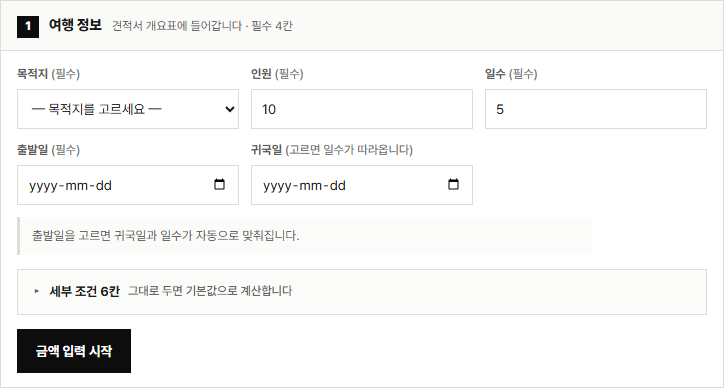
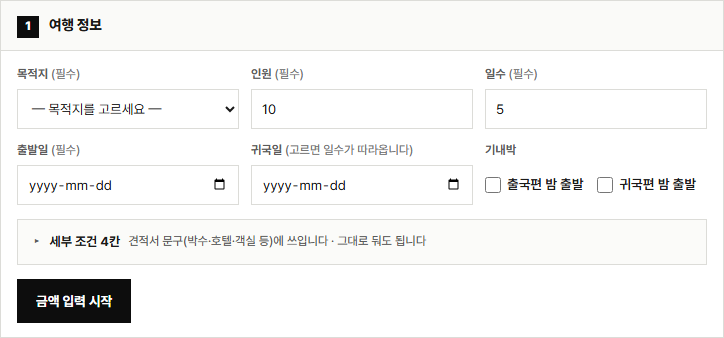
매뉴얼 — 9/28~9/30 관리자 변경을 따라잡음 · 낡은 매뉴얼을 통과시키던 검사 둘 (대표 요청 「매뉴얼 오류·충돌 체크」 2026-10-01)
매뉴얼은 9/28 17:20 이후, 그림은 9/17 이후 안 바뀌었고 그 사이 관리자 커밋이 17건 들어왔다.
글과 코드를 줄마다 대조해(파일:줄 근거) 고쳤다.

🔴 없는 버튼을 설명하던 것
- 견적서 대장 장 — 「견적 상세」·「🔴 최신본」·차수 배지·「개정 아님으로」/「○○ 개정으로」를 설명했다.
  9/28(c5085c2)에 전부 화면에서 빠졌다 → 「한 견적 = 한 줄 · 이전 판은 접혀 있다 · 맨 위 줄이 최신판」으로 다시 씀.
  옛 링크의 「더 최근 판이 있습니다」 띠(48e4fbe)도 같은 자리에.
- 「삭제 버튼이 없습니다」 → 9/30(93af85e)부터 있다. 「취소가 먼저 · 삭제는 매니저 이상 · 고객 링크는
  『없는 견적서』 · 삭제 기록에 남음 · 번호 재사용 안 함」으로. 관리자 대장 안내문의 「지우지 않습니다」도 같이.
- 직접 견적 세부 조건 「6칸」 → 4칸(c210e19) · 「칸이 5개 줄어」 → 7개 · 「11칸 → 6칸」 → 4칸.
- ② 그림 설명 「ENBT 수익·내부 배지」 → 「본사 수익 · 연분홍 바탕 줄」(cb64f29).
- ③ 유효기간 「비우면 14일」 → 「자동으로 한 달 뒤」(1573행 · 같은 매뉴얼 731행과 어긋났다).
  ⚠ 직접 견적(패키지 경로)의 14일(1493행)은 서버값 그대로 둠 — 맞출지는 대기열 0-ac(대표 결정).
- 「13칸 · 직접 견적에서는 안 보입니다」 → 직접 견적에도 호텔·좌석·객실은 보인다(문구용).

🟡 매뉴얼에 없던 새 기능: 대장 월별 보기 · ② 「고객 가격에 반영 / 우리 마진에서 부담」 ·
① 기내박(박수·호텔 1박씩) · ④ 「모든 날에 적용」 · 고치기에서 ②③④ 「저장하기」가 바로 저장(42f6484) ·
권한표에 대장 삭제·직접 견적 작성·전체 내보내기(매니저 이상) · 「공급사 원가 합계」 이름.

그림 3장 다시 찍음(shoot_manual.py · 로컬 서버 + 가짜 응답) — 4칸 · 본사 수익 · 부담 고르기 · 기내박이 보인다.

🔴 낡은 매뉴얼이 안 걸린 이유 — 검사 둘이 거짓으로 통과하고 있었다(결함 생성기 ③)
- test_aA [7]: 「화면에 『개정 아님으로』가 있다」를 ledger.js에 그 글자가 있는지로 쟀는데, 버튼을 뺀 뒤에도
  **주석**에 남아 있어 늘 「있다」였다 → 주석을 걷은 코드에서 읽고, 화면에 없는 버튼은 설명하지 않는지까지 본다.
  옛 manual.html을 넣으면 7개가 ✗로 잡힌다(확인함).
- test_wB ⑦ 「화면에 삭제 버튼이 없다」: `led-delete`를 찾았는데 실제 버튼은 `led-del` → 늘 통과.
  「삭제는 매니저 이상에게만 그린다」로 바꿈 · 권한을 뗀 코드 둘에서 ✗ 확인.

재 본 것: 전체 7532 pass / 0 fail · check_manual_layout 어긋남 0 · 화면별 매뉴얼 9개를 브라우저로 열어
그 절만 보이고 그림 깨짐·JS 오류 0 · 관리자 9개 화면에 「이 화면 매뉴얼」 링크 9개 · audit_ux 같음.

diff --git a/manual.html b/manual.html
@@ -734,13 +734,15 @@
           아래 견적서의 <strong>노란 칸</strong>을 눌러 바로 적습니다(<strong>연한 글씨 = 예시, 아직 비어 있음</strong> —
           비워 두면 <strong>견적서에서 그 항목이 통째로 빠집니다</strong>).<br>
           거래처명·고객 연락처·항목 <strong>줄 추가</strong>·아동/유아 인원·선택 옵션은 맨 아래 <strong>「견적서 내용 보충」</strong>을 펼쳐서 적고,
-          <strong>「저장하기」</strong>를 누르면 위 견적서에 반영되고 그리로 올라갑니다(서버 저장은 ⑤단계 「견적 저장하기」).<br>
+          <strong>「저장하기」</strong>를 누르면 위 견적서에 반영되고 그리로 올라갑니다(새 견적은 ⑤단계 「견적 저장하기」에서 서버에 저장됩니다 · 이미 저장한 견적을 <strong>고칠 때</strong>는 ②·③·④의 「저장하기」가 바로 서버에 저장합니다).<br>
           거래처명은 문서 제목에 들어가고, <strong>고객 연락처·내부 메모는 고객에게 안 나갑니다</strong>(대장에만 남습니다).<br>
           🔴 <strong>담당자 이름·연락처·메일</strong>을 비우면 견적서에 <strong>「미입력」이 빨갛게</strong> 찍힙니다.</li>
         <li><b>④</b> <strong>일정</strong>은 비어 있지 않습니다 — 산출하면 <strong>추천 코스가 초안으로</strong> 깔립니다.
           코스가 둘 이상이면 고른 뒤 <strong>「추천 일정으로 채우기」</strong>.
           <ul>
             <li>이미 적은 칸은 <strong>안 덮습니다</strong>. 바꾸려면 비우고 다시 누르세요.</li>
+            <li>숙박·식사가 날마다 같으면 위 <strong>「전체 일정에 한 번에」</strong>에 한 번 적고 <strong>「모든 날에 적용」</strong> —
+              적은 칸만 들어가고, <strong>마지막 날 숙박은 빠집니다</strong>. 이미 다른 값이 적힌 날이 있으면 먼저 묻습니다.</li>
             <li>🔴 <strong>여기 남은 글이 고객 일정표에 그대로</strong> 나갑니다 — 읽어 보고 고치세요.</li>
             <li>일정·방식 비교에서 고친 내용이 있으면 <strong>그 최신본</strong>이 깔립니다
               (못 불러오면 화면이 「기본 일정입니다」라고 말합니다).</li>
@@ -771,7 +773,7 @@
               <td><span class="yes">됩니다</span></td></tr>
             <tr><td class="field">원가</td>
               <td>엔진이 압니다</td>
-              <td>「원가 합계」에 적으면 마진이 자동 계산</td></tr>
+              <td>「공급사 원가 합계」에 적으면 마진이 자동 계산</td></tr>
             <tr><td class="field">서버 검증</td>
               <td>요율로 다시 계산해 대조</td>
               <td>「해당 없음」</td></tr>
@@ -787,12 +789,12 @@
           <figcaption><strong>자동 견적 산출</strong> — 세부 조건 <strong>11칸</strong> · 버튼은 <strong>「자동 산출하기」</strong></figcaption>
         </figure>
         <figure class="shot">
-          <img src="이미지/매뉴얼/adhoc-1-조건.png" alt="직접 견적 작성 1단계 — 여행 정보. 세부 조건 6칸." loading="lazy">
-          <figcaption><strong>직접 견적 작성</strong> — 세부 조건 <strong>6칸</strong> · 버튼은 <strong>「금액 입력 시작」</strong></figcaption>
+          <img src="이미지/매뉴얼/adhoc-1-조건.png" alt="직접 견적 작성 1단계 — 여행 정보. 세부 조건 4칸." loading="lazy">
+          <figcaption><strong>직접 견적 작성</strong> — 세부 조건 <strong>4칸</strong> · 버튼은 <strong>「금액 입력 시작」</strong></figcaption>
         </figure>
       </div>
       <p>
-        같은 화면인데 <strong>칸이 5개 줄어 있습니다.</strong> 사라진 칸이 곧
+        같은 화면인데 <strong>칸이 7개 줄어 있습니다.</strong> 사라진 칸이 곧
         <strong>엔진이 금액을 만드는 데 쓰는 칸</strong>입니다 — 직접 견적은 엔진을 안 타니까요.
       </p>
       <div class="warn">
@@ -811,7 +813,7 @@
         <figcaption>
           <strong>2단계 금액</strong> — <strong>자동값</strong>이 고객이 받는 금액입니다.
           <strong>적용값</strong>을 고치면 오른쪽에 증감이 붙고 <strong>「수정됨」</strong> 표시가 남습니다.
-          <span class="tag off">내부</span>가 붙은 줄(ENBT 수익·현지 수익금)은 <strong>고객 견적서에 안 나갑니다.</strong>
+          <strong>연분홍 바탕 줄</strong>(본사 수익·현지 수익금·여행자보험)은 <strong>고객 견적서에 안 나갑니다.</strong>
         </figcaption>
       </figure>
       <h3>금액이 어떻게 맞춰지나</h3>
@@ -819,6 +821,9 @@
         <li>🔴 <strong>어느 줄을 고치느냐로 나가는 주머니가 다릅니다.</strong>
           <strong>원가 줄</strong>(항공·호텔·식사·차량·가이드·관광·부대비용)을 고치면 <strong>원가</strong>가 움직이고 —
           공급사에게 받은 실제 금액을 아는 자리입니다.
+          이때 표 위에서 <strong>누가 부담할지</strong> 고릅니다:
+          <strong>「고객 가격에 반영」</strong>(기본)이면 총액이 같이 오르고 마진은 그대로,
+          <strong>「우리 마진에서 부담」</strong>이면 「본사 수익」이 같은 만큼 내려가 <strong>총액은 그대로, 마진만 줄어듭니다.</strong>
           <strong>연분홍 바탕 줄</strong>(본사 수익·현지 수익금 — 고객에게 안 나가는 줄)과 아래 <strong>실무 변수</strong>를 고치면
           <strong>마진</strong>에서 나갑니다 — 깎아 주는 자리입니다.</li>
         <li><strong>마진율이 5% 아래로 내려가면 화면이 알려 줍니다.</strong> 마이너스가 되면 빨갛게 경고합니다.
@@ -878,7 +883,7 @@
       <h4>① 금액을 만드는 칸</h4>
       <div class="scroller">
         <table>
-          <caption>13칸 · 고치면 총액이 바뀝니다. 「직접 견적 작성」에서는 안 보입니다.</caption>
+          <caption>고치면 총액이 바뀝니다. 「직접 견적 작성」은 금액을 만들지 않습니다 — 거기서 보이는 호텔·좌석·객실 칸은 견적서 문구에만 쓰입니다.</caption>
           <tbody>
             <tr><td class="field">목적지</td>
               <td>모든 단가의 출발점 — 항공·호텔·식사·차량·가이드·관광비.<br>
@@ -889,6 +894,9 @@
             <tr><td class="field">일수</td>
               <td>숙박·식사·차량·가이드가 비례합니다.<br>
                 🔴 <strong>관광비는 비례하지 않습니다</strong> — 4~5일 기준 묶음값입니다.</td></tr>
+            <tr><td class="field">기내박</td>
+              <td>「출국편 밤 출발」·「귀국편 밤 출발」 — 체크 하나마다 <strong>박수와 호텔 금액이 1박씩 줄고</strong>,
+                일정표에 기내박·기내식이 들어갑니다(예: 3박 5일).</td></tr>
             <tr><td class="field">객실 구성</td>
               <td>싱글 차지. 「혼합」을 골라야 <strong>1인 1실 임원</strong> 칸이 나옵니다.<br>
                 🔴 <strong>좌석과 무관합니다</strong> — 방을 혼자 쓰는 인원입니다.</td></tr>
@@ -923,7 +931,7 @@
             <tr><td class="field">내부 메모</td><td>🔴 고객에게 안 나갑니다.</td></tr>
             <tr><td class="field">고객 연락처</td><td>대장에만 남습니다 — 견적서에는 안 나갑니다.</td></tr>
             <tr><td class="field">취소 규정</td><td>비우면 견적서에 안 나갑니다.</td></tr>
-            <tr><td class="field">유효기간</td><td>비우면 <strong>14일</strong>이 붙습니다.</td></tr>
+            <tr><td class="field">유효기간</td><td>자동으로 <strong>한 달 뒤</strong>가 들어갑니다 — 고칠 수 있습니다.</td></tr>
             <tr><td class="field">성인 · 아동 · 유아 인원</td><td>표기용 — <strong>단가는 셋 다 같습니다.</strong></td></tr>
             <tr><td class="field">거래처명</td><td>견적서 <strong>제목</strong>에 들어갑니다.</td></tr>
             <tr><td class="field">단체명 · 지역 표기 · 숙박지</td><td>견적서 머리의 여행 개요</td></tr>
@@ -1443,7 +1451,7 @@
         <span class="label">📌 자동 견적 산출과 같은 화면입니다</span>
         <p>
           두 메뉴는 <strong>같은 5단계</strong>를 지납니다 — 다른 것은 <strong>금액을 누가 만드느냐</strong>뿐입니다.
-          직접 견적에서는 ①의 <strong>세부 조건이 11칸 → 6칸</strong>으로 줄고
+          직접 견적에서는 ①의 <strong>세부 조건이 11칸 → 4칸</strong>으로 줄고
           (엔진이 쓰는 칸이 빠집니다), ②가 <strong>「금액 조정」이 아니라 「금액 입력」</strong>입니다.
         </p>
       </div>
@@ -1453,7 +1461,7 @@
         <li><b>①</b> <strong>목적지·인원·일수·출발일</strong>을 넣고 <strong>「금액 입력 시작」</strong>.</li>
         <li><b>②</b> <strong>항목과 금액을 직접 적습니다.</strong>
           <strong>「+ 항목 추가」</strong>로 줄을 늘리고, 항목 이름도 직접 짓습니다.
-          <strong>「원가 합계」</strong>를 적으면 마진이 자동으로 계산됩니다.</li>
+          <strong>「공급사 원가 합계」</strong>를 적으면 마진이 자동으로 계산됩니다.</li>
         <li><b>③</b> <strong>담당자 이름·연락처</strong>를 적습니다 —
           🔴 비우면 견적서에 <strong>「미입력」이 빨갛게</strong> 찍혀 나갑니다.</li>
         <li><b>④</b> 일정을 확인하고 <b>⑤</b> <strong>미리보기</strong>로 고객이 받는 모습을 봅니다.</li>
@@ -1497,12 +1505,12 @@
         <p class="trap"><strong>발급한 견적서를 찾고 상태를 남깁니다</strong></p>
         <ol>
           <li><b>견적번호·회사명·목적지·담당자</b>로 찾습니다</li>
-          <li><b>「고객 화면」</b>으로 고객이 받은 그 견적서를 봅니다 · <b>「견적 상세」</b>는 견적 관리의 그 건을 엽니다</li>
+          <li><b>「고객 화면」</b>으로 고객이 받은 그 견적서를 봅니다 · <b>「링크 복사」</b>로 링크를 다시 보냅니다</li>
           <li>상태를 <b>발급/계약/무산/취소</b>로 바꾸고 <b>「저장」</b>을 누릅니다</li>
         </ol>
         <p class="trap">⚠ <b>고르기만 하면 저장이 아닙니다</b> — 옆의 「저장」을 눌러야 합니다.</p>
-        <p class="trap">⚠ 🔴 <b>최신본 Q…</b> 가 빨갛게 붙은 줄은 <b>옛 견적서</b>입니다 — 그 금액으로 응대하지 마세요.</p>
-        <p class="more">차수가 잘못 이어졌을 때 쓰는 「개정 아님으로」는 아래에 있습니다.</p>
+        <p class="trap">⚠ <b>한 견적은 한 줄</b>입니다 — 맨 위 줄이 <b>최신판</b>이고, 고쳐 낸 이전 판은 「이전 판 n개 ▾」에 접혀 있습니다. 이전 판으로 응대하지 마세요.</p>
+        <p class="more">무산·잘못 낸 건은 지우지 말고 「취소」로 — 「삭제」는 매니저 이상만, 아래에 있습니다.</p>
       </div>
       <p>
         <strong>우리가 발급한 견적서가 전부 여기 있습니다.</strong> 왼쪽 메뉴에서
@@ -1531,60 +1539,31 @@
         <li><strong>회사명 · 고객 담당자 이름</strong></li>
         <li><strong>목적지</strong> (예: 오키나와)</li>
         <li><strong>발급한 직원 이름</strong></li>
+        <li><strong>월</strong> — 검색줄 오른쪽 「전체 월」에서 고르면 그달 견적만 봅니다.
+          목록은 달마다 머리줄이 붙어 <strong>그달 견적 수 · 계약 수 · 금액 합계</strong>(취소·무산 제외)를 보여 줍니다.</li>
       </ul>
-      <h4 id="ledger-rev">차수와 「최신본」 — 옛 견적서를 보고 응대하지 않게</h4>
+      <!-- 2026-10-01 고침 — 9/28(c5085c2)에 대장이 「견적 1건 = 1줄」로 바뀌며 차수 배지·「🔴 최신본」·
+           「개정 아님으로」·「○○ 개정으로」 버튼이 **화면에서 사라졌는데** 이 절은 그 버튼들을 설명하고 있었다.
+           id는 그대로 둔다(밖에서 이 자리로 오는 링크가 생겼을 수 있다). -->
+      <h4 id="ledger-rev">한 견적 = 한 줄 — 이전 판은 접혀 있습니다</h4>
       <p>
-        <strong>같은 문의로 견적서를 다시 내면 시스템이 앞 건과 이어 붙입니다.</strong>
-        번호 칸에 이렇게 보입니다.
-      </p>
-      <div class="scroller">
-        <table>
-          <tbody>
-            <tr><td class="field"><span class="tag">2차</span></td>
-              <td>이 문의로 <strong>두 번째</strong> 낸 견적서입니다. 1차에는 안 붙습니다.</td></tr>
-            <tr><td class="field">↳ BP-2609-0001 개정</td>
-              <td>어느 건을 고쳐 낸 것인지.</td></tr>
-            <tr><td class="field"><span class="tag bad">🔴 최신본 BP-2609-0002</span></td>
-              <td><strong>이 줄은 옛 견적서입니다.</strong> 고객이 들고 있는 것은 저 번호입니다 —
-                이 금액으로 응대하지 마세요.</td></tr>
-            <tr><td class="field"><span class="tag">차수 모름</span></td>
-              <td>앞선 견적서를 못 찾았습니다. <strong>짐작한 차수를 보여 주지 않습니다</strong> —
-                틀린 차수가 더 위험하기 때문입니다.</td></tr>
-          </tbody>
-        </table>
-      </div>
-
-      <h4>「개정 아님으로」는 언제 누르나</h4>
-      <p>
-        이어 붙이는 것은 <strong>자동이라 틀릴 때가 있습니다.</strong>
-        가장 흔한 경우가 <strong>한 문의에 A안·B안을 같이 낸 때</strong>입니다.
+        견적을 고쳐서 다시 발급하면(<code>_V2</code>·<code>_V3</code>) <strong>줄이 새로 생기지 않고</strong>
+        맨 위 줄 아래 <strong>「이전 판 n개 ▾」</strong>에 접힙니다. 누르면 펼쳐져
+        <strong>흐린 줄(└ 번호 · 이전 판)</strong>로 보입니다.
       </p>
       <div class="warn">
-        <span class="label">🔴 이런 일이 생깁니다</span>
+        <span class="label">🔴 맨 위 줄이 최신판입니다</span>
         <p>
-          같은 고객 문의로 <strong>「베트남안」</strong>과 <strong>「일본안」</strong>을 각각 발급했습니다.
-          시스템은 시간 순서만 보고 <strong>「일본안 = 베트남안의 2차」</strong>로 잇습니다.
-          그러면 베트남안에 <strong>🔴 최신본</strong> 경고가 붙어
-          <strong>버려진 견적서처럼 보입니다</strong> — 둘 다 살아 있는 제안인데요.
-        </p>
-        <p>
-          그 줄의 <strong>「개정 아님으로」</strong>를 누르면 연결이 끊기고,
-          차수 배지와 빨간 경고가 사라져 <strong>둘이 대등한 견적서로 돌아갑니다.</strong>
+          고객이 들고 있어야 할 견적서는 <strong>맨 위 줄</strong>입니다. 펼친 이전 판의 금액으로 응대하지 마세요.
+          옛 링크를 연 고객에게도 견적서 맨 위에 <strong>「더 최근 판이 있습니다 · 최신 견적서 보기 →」</strong>가 뜹니다
+          (옛 링크는 그대로 열립니다 — A안·B안을 같이 낸 경우가 있어 「무효」라고 하지 않습니다).
         </p>
       </div>
       <p>
-        <strong>같은 버튼이 반대로도 씁니다.</strong> 이어져 있지 않은데 이어야 할 건이면
-        <strong>「BP-2609-0001 개정으로」</strong>라고 나옵니다 — 누르면 이어집니다.
-        이을 건이 없으면 버튼 자체가 안 나옵니다.
+        목록 위 건수는 <strong>「견적 n건 · 발급 문서 n건」</strong>입니다 — 판을 모두 센 수가 뒤의 숫자입니다.
+        드물게 <strong>「⚠ 차수를 세지 못했습니다」</strong>가 뜨면 판 번호를 짐작해 보여 주지 않은 것이니
+        담당자에게 알려 주세요.
       </p>
-      <div class="note">
-        <span class="label">📌 금액은 아무것도 안 바뀝니다</span>
-        <p>
-          차수는 <strong>줄과 줄의 관계</strong>일 뿐입니다. 끊거나 이어도
-          <strong>견적서 금액과 이미 나간 링크는 그대로입니다.</strong>
-          바뀌는 것은 대장에서 보이는 배지와 경고뿐이니, 잘못 눌러도 되돌리면 됩니다.
-        </p>
-      </div>
       <h4>상태를 바꿔 두세요</h4>
       <p>
         각 줄의 상태를 <strong>발급 / 계약 / 무산 / 취소</strong>로 바꿀 수 있습니다.
@@ -1595,12 +1574,20 @@
         <strong>이걸 해 두셔야 다른 사람이 「이 건 어떻게 됐지」를 묻지 않아도 됩니다.</strong>
       </p>
       <div class="warn">
-        <span class="label">견적서는 지우지 않습니다</span>
+        <span class="label">지우기보다 「취소」가 먼저입니다</span>
         <p>
-          삭제 버튼이 없습니다. 지우면 <strong>「우리가 그 금액을 낸 적 있다」는 근거가
-          사라지기</strong> 때문입니다. 무산되거나 잘못 낸 건은 상태를
-          <strong>「취소」</strong>로 바꿔 주세요 — 목록에는 남되 무엇이 됐는지는 분명해집니다.
+          무산되거나 잘못 낸 건은 상태를 <strong>「취소」</strong>로 바꿔 주세요 — 목록에는 남되
+          무엇이 됐는지는 분명해지고, <strong>「우리가 그 금액을 낸 적 있다」는 근거</strong>가 남습니다.
         </p>
+        <p>
+          꼭 지워야 할 때만 줄 오른쪽 <strong>「삭제」</strong>를 씁니다(2026-09-30부터).
+          <strong>매니저 이상에게만 보입니다.</strong> 지우면 —
+        </p>
+        <ul>
+          <li>고객이 그 링크를 열면 <strong>「없는 견적서」</strong>로 나옵니다</li>
+          <li>지운 내용은 <strong>삭제 기록</strong>에 통째로 남고, <strong>그 번호는 다시 쓰지 않습니다</strong></li>
+          <li>「계약」 상태인 건은 확인창이 한 번 더 경고합니다</li>
+        </ul>
       </div>
     </section>
 
@@ -2146,6 +2133,9 @@
             <tr><td>일정·방식 비교 편집 (두 구역 모두)</td><td class="yes">가능</td><td class="yes">가능</td><td class="yes">가능</td></tr>
             <tr><td>목적지 단가 개별 수정 · 변경 이력 되돌리기</td><td class="yes">가능</td><td class="yes">가능</td><td class="yes">가능</td></tr>
             <tr><td>문의 · 견적 <strong>삭제</strong></td><td class="no">—</td><td class="yes">가능</td><td class="yes">가능</td></tr>
+            <tr><td>견적서 대장 <strong>삭제</strong> (지운 번호는 다시 안 씀 · 삭제 기록에 남음)</td><td class="no">—</td><td class="yes">가능</td><td class="yes">가능</td></tr>
+            <tr><td>직접 견적 작성</td><td class="no">—</td><td class="yes">가능</td><td class="yes">가능</td></tr>
+            <tr><td>전체 데이터 내보내기</td><td class="no">—</td><td class="yes">가능</td><td class="yes">가능</td></tr>
             <tr><td>권역 일괄 조정 (%)</td><td class="no">—</td><td class="yes">가능</td><td class="yes">가능</td></tr>
             <tr><td>새 목적지 추가 · 삭제</td><td class="no">—</td><td class="yes">가능</td><td class="yes">가능</td></tr>
             <tr><td>견적 계수 조정</td><td class="no">—</td><td class="yes">가능</td><td class="yes">가능</td></tr>

diff --git a/ai-loop/test_aA_manual_perscreen.js b/ai-loop/test_aA_manual_perscreen.js
@@ -100,29 +100,37 @@ if (adhocSec) {
   }
 }
 
-console.log('\n[7] 대장의 개정 버튼 설명이 화면과 같은가');
-/* 🔴 **대표가 「개정 아님으로가 무슨 뜻이냐」고 물었다**(2026-09-17). 매뉴얼에 그 말이
-     아예 없었다 — 화면에만 있는 버튼은 아무도 못 배운다.
-   ⚠ 버튼 글자는 `admin/ledger.js`에 있다. 거기서 이름을 바꾸면 매뉴얼이 조용히
-     낡는다 — 그래서 **파일에서 읽어** 대조한다(문자열을 여기 다시 적지 않는다). */
-const ledjs = fs.readFileSync(path.join(ROOT, 'admin', 'ledger.js'), 'utf8');
+console.log('\n[7] 대장 설명이 화면과 같은가');
+/* 🔴 **이 검사가 9/28부터 거짓으로 통과하고 있었다**(2026-10-01 발견). 「화면에 「개정 아님으로」 버튼이
+     있다」를 `ledger.js`에 그 글자가 있는지로 쟀는데, 9/28(c5085c2)에 버튼을 뺀 뒤에도 그 글자가
+     **주석에** 남아 있어 계속 「있다」였다 — 그래서 매뉴얼이 없는 버튼(개정 아님으로·최신본·견적 상세)과
+     「삭제 버튼이 없습니다」를 설명하는데도 아무것도 안 울렸다(결함 생성기 ③).
+   → **주석을 걷어 낸 코드**에서 읽는다. 버튼이 다시 생기면 매뉴얼도 다시 설명해야 하고, 없으면 설명하면 안 된다.
+   (처음 이 자리를 만든 이유 — 대표가 2026-09-17 「개정 아님으로가 무슨 뜻이냐」고 물었다 — 는 그대로다:
+    **화면과 매뉴얼이 같은 말을 해야 한다.**) */
+const ledjs = fs.readFileSync(path.join(ROOT, 'admin', 'ledger.js'), 'utf8')
+  .replace(/\/\*[\s\S]*?\*\//g, '').replace(/^\s*\/\/.*$/gm, '');
 const ledSec = manual.match(/<section id="ledger">([\s\S]*?)<\/section>/);
 ok('매뉴얼에 견적서 대장 절이 있다', !!ledSec);
-const cut = ledjs.includes('개정 아님으로') ? '개정 아님으로' : null;
-ok('화면에 「개정 아님으로」 버튼이 있다', !!cut, 'admin/ledger.js에서 사라졌다');
-if (ledSec && cut) {
-  const t = ledSec[1].replace(/<[^>]+>/g, '');
-  ok('매뉴얼이 「' + cut + '」을 설명한다', t.includes(cut),
-     '화면에만 있고 매뉴얼엔 없다 — 담당자가 물어보게 된다');
-  ok('언제 누르는지도 적혀 있다', t.includes('A안') || t.includes('개정 아님으로」는 언제'),
-     '이름만 적고 쓰는 때를 안 적으면 여전히 모른다');
-  ok('「최신본」 경고를 설명한다', t.includes('최신본'),
-     '옛 견적서로 응대하는 것을 막는 표시인데 설명이 없다');
-  ok('「차수 모름」을 설명한다', t.includes('차수 모름'));
-  /* 🔴 **금액이 안 바뀐다는 말이 꼭 있어야 한다.** 없으면 담당자가 무서워서 안 누른다 —
-     못 누르는 안전장치는 없는 것과 같다. */
-  ok('끊어도 금액이 안 바뀐다고 말한다', t.includes('금액은 아무것도 안 바뀝니다'),
-     '무서워서 안 누르면 잘못 이어진 채로 남는다');
+ok('주석을 걷어도 대장 코드가 남는다(잣대 자체 확인)', ledjs.includes('led-open') && ledjs.length > 5000);
+if (ledSec) {
+  const t = ledSec[1].replace(/<!--[\s\S]*?-->/g, '').replace(/<[^>]+>/g, '');
+  /* 화면에 없는 버튼은 설명하지 않는다 · 있는 버튼은 설명한다 — 둘 다 코드에서 읽어 정한다 */
+  for (const 이름 of ['개정 아님으로', '견적 상세', '최신본']) {
+    const 화면에있다 = ledjs.includes(이름);
+    ok((화면에있다 ? '화면에 있는 ' : '화면에 없는 ') + '「' + 이름 + '」을 매뉴얼이 ' + (화면에있다 ? '설명한다' : '설명하지 않는다'),
+       화면에있다 === t.includes(이름),
+       화면에있다 ? '화면에만 있고 매뉴얼엔 없다' : '없는 버튼을 설명한다 — 직원이 찾아 헤맨다');
+  }
+  const 접힘 = ledjs.includes('led-fold') && ledjs.includes('이전 판');
+  ok('「이전 판」 접힘을 설명한다', !접힘 || t.includes('이전 판'), '한 견적 = 한 줄 구조를 매뉴얼이 모른다');
+  ok('맨 위 줄이 최신판이라고 말한다', !접힘 || t.includes('최신판'));
+  const 삭제있음 = /led-del/.test(ledjs);
+  ok(삭제있음 ? '「삭제」와 그 문턱(매니저 이상)을 설명한다' : '삭제 버튼이 없다고 말한다',
+     삭제있음 ? (t.includes('삭제') && t.includes('매니저 이상') && !t.includes('삭제 버튼이 없습니다'))
+              : t.includes('삭제 버튼이 없습니다'),
+     '화면의 삭제 버튼과 매뉴얼이 어긋난다');
+  ok('월별 보기를 설명한다', !ledjs.includes('ledMonth') || t.includes('전체 월'));
 }
 /* ⚠ 매뉴얼은 관리자 CSS를 안 싣는다 — `pkg-st` 같은 관리자 전용 클래스를 쓰면
      배지가 **맨 글자**로 나온다(2026-09-17에 실제로 그렇게 썼다가 재서 알았다). */

diff --git a/ai-loop/test_wB_quote_ledger.js b/ai-loop/test_wB_quote_ledger.js
@@ -231,11 +231,17 @@ console.log('\n[7] 대장 — 담당자가 휴가여도 찾을 수 있다');
   /* 견적서는 지우지 않는다 */
   ok('⑦ 삭제가 아니라 상태로 남긴다', /'issued', 'won', 'lost', 'void'/.test(SHARES));
   ok('⑦ 누가 언제 바꿨는지 남는다', /status_by/.test(SHARES) && /status_at = now\(\)/.test(SHARES));
-  ok('⑦ 화면에 삭제 버튼이 없다', !/led-delete/.test(ADMIN));
+  /* 🔴 2026-10-01 — 이 자리는 「화면에 삭제 버튼이 없다」(`!/led-delete/`)였다. 9/30(zT)에 삭제 버튼이
+       **`led-del`**이라는 이름으로 생겼는데 이 검사는 다른 이름을 찾고 있어 **계속 통과했다**(결함 생성기 ③).
+       이제 지키는 것은 「삭제는 매니저 이상만」 — 버튼은 `canDel`(isManagerUpRole)일 때만 그린다.
+       (서버 쪽 문턱·삭제 기록·번호 재사용 금지는 test_zT_ledger_delete가 잰다.) */
+  const LEDJS = fs.readFileSync(path.join(ROOT, 'admin', 'ledger.js'), 'utf8');
+  ok('⑦ 삭제 버튼은 매니저 이상에게만 그린다',
+    /const canDel = [^;]*isManagerUpRole\(\)/.test(LEDJS) && /canDel\s*\?[\s\S]{0,80}led-del/.test(LEDJS));
   /* ⚠ 안내를 줄이면서 표현이 바뀌었다(ZV) — **뜻으로 잰다.** 지키려던 것은 문장이
-     아니라 「왜 안 지우는가」가 화면에 남아 있는가다. */
-  ok('⑦ 왜 안 지우는지가 화면에 적혀 있다',
-    /지우지 않습니다/.test(ADMIN) && /낸 적 있다」는 근거/.test(ADMIN));
+     아니라 「왜 먼저 취소로 두는가」가 화면에 남아 있는가다. */
+  ok('⑦ 지우기 전에 「취소」 — 그 이유가 화면에 적혀 있다',
+    /지우기 전에 「취소」/.test(ADMIN) && /낸 적 있다」는 근거/.test(ADMIN));
 }
 
 /* ── [8] 실제로 열어 본다 ─────────────────────────────────────────────────── */

diff --git a/admin.html b/admin.html
@@ -608,8 +608,9 @@
         <strong>번호에 연월이 들어 있습니다</strong> — <code>BP-2609-0001</code> = 2026년 9월의 1번째 견적
         (뒤에 <code>_V2</code>·<code>_V3</code>이 붙으면 고쳐서 다시 낸 판 · 9/28 전엔 <code>-R1</code>). 9월 23일 전에 낸 건은 <code>Q260824-03</code>(8월 24일 세 번째) 꼴입니다.
         <br>
-        ⚠ <strong>지우지 않습니다</strong> — 무산된 건은 상태를 <strong>「취소」</strong>로 바꿔 주세요.
-        (「우리가 그 금액을 낸 적 있다」는 근거가 남아야 합니다.)
+        <!-- 2026-10-01 — 「지우지 않습니다」였는데 9/30부터 줄마다 「삭제」가 있다(매니저 이상). 안내가 버튼과 어긋났다. -->
+        ⚠ <strong>지우기 전에 「취소」</strong> — 무산된 건은 상태를 <strong>「취소」</strong>로 바꿔 주세요
+        (「우리가 그 금액을 낸 적 있다」는 근거가 남아야 합니다). 「삭제」는 매니저 이상만 보이고, 지운 번호는 다시 쓰지 않습니다.
         <br>
         ⚠ 한 견적은 <strong>한 줄</strong>입니다 — 맨 위 줄이 <strong>최신판</strong>이고, 고쳐 낸 이전 판은 <strong>「이전 판 n개」</strong>에 접혀 있습니다. 이전 판으로 응대하지 마세요.
       </div>
